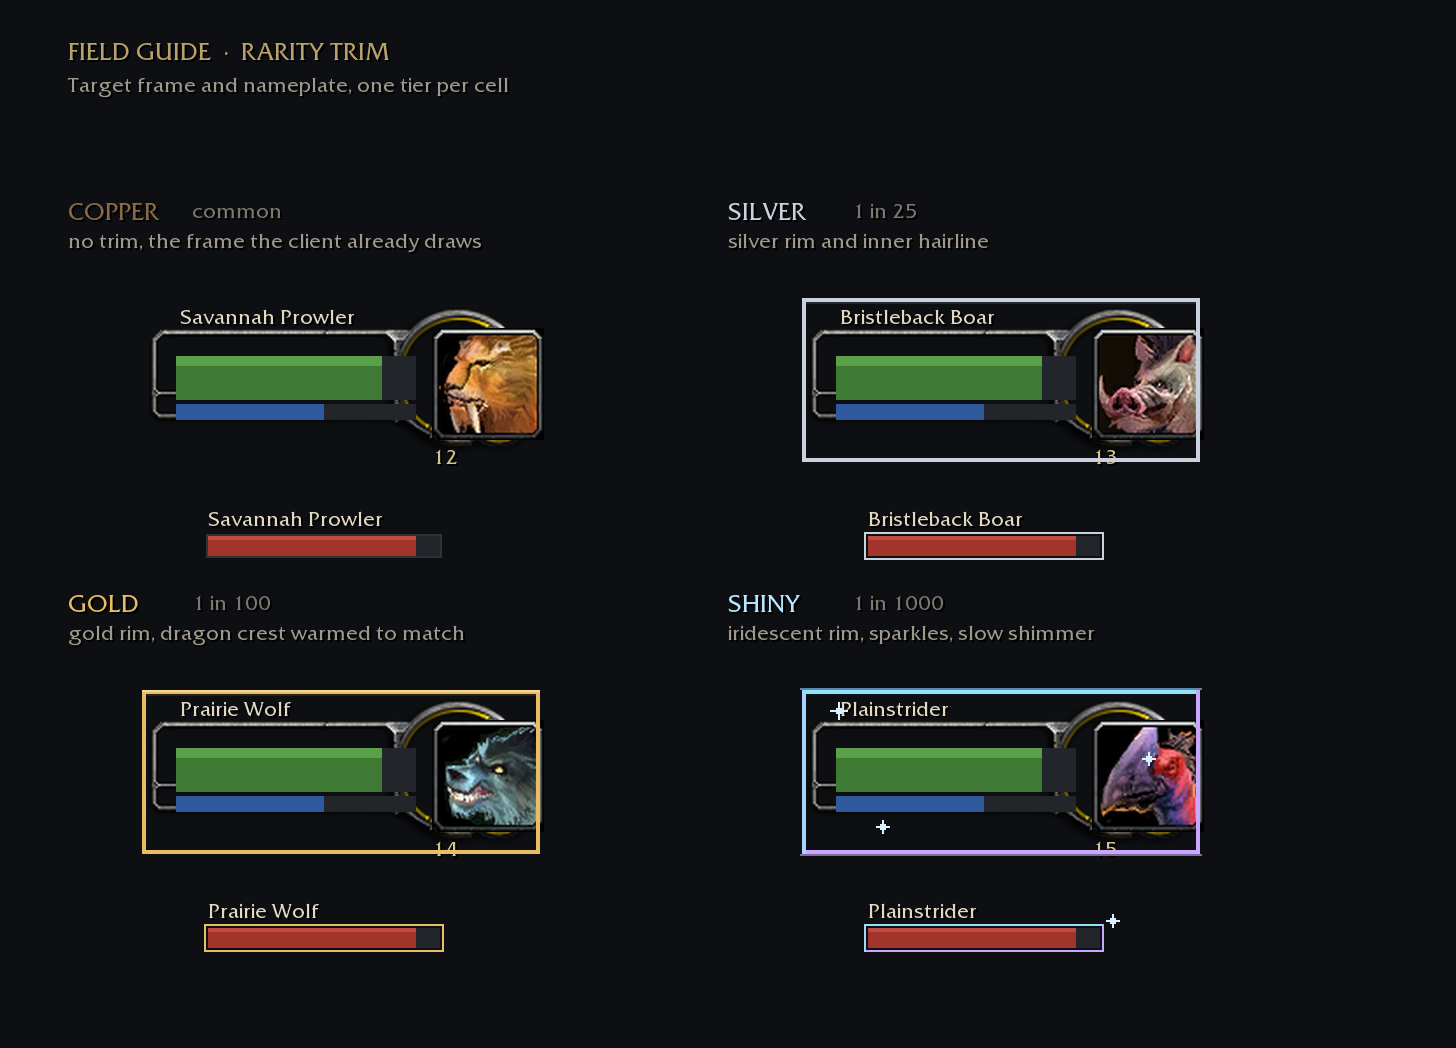
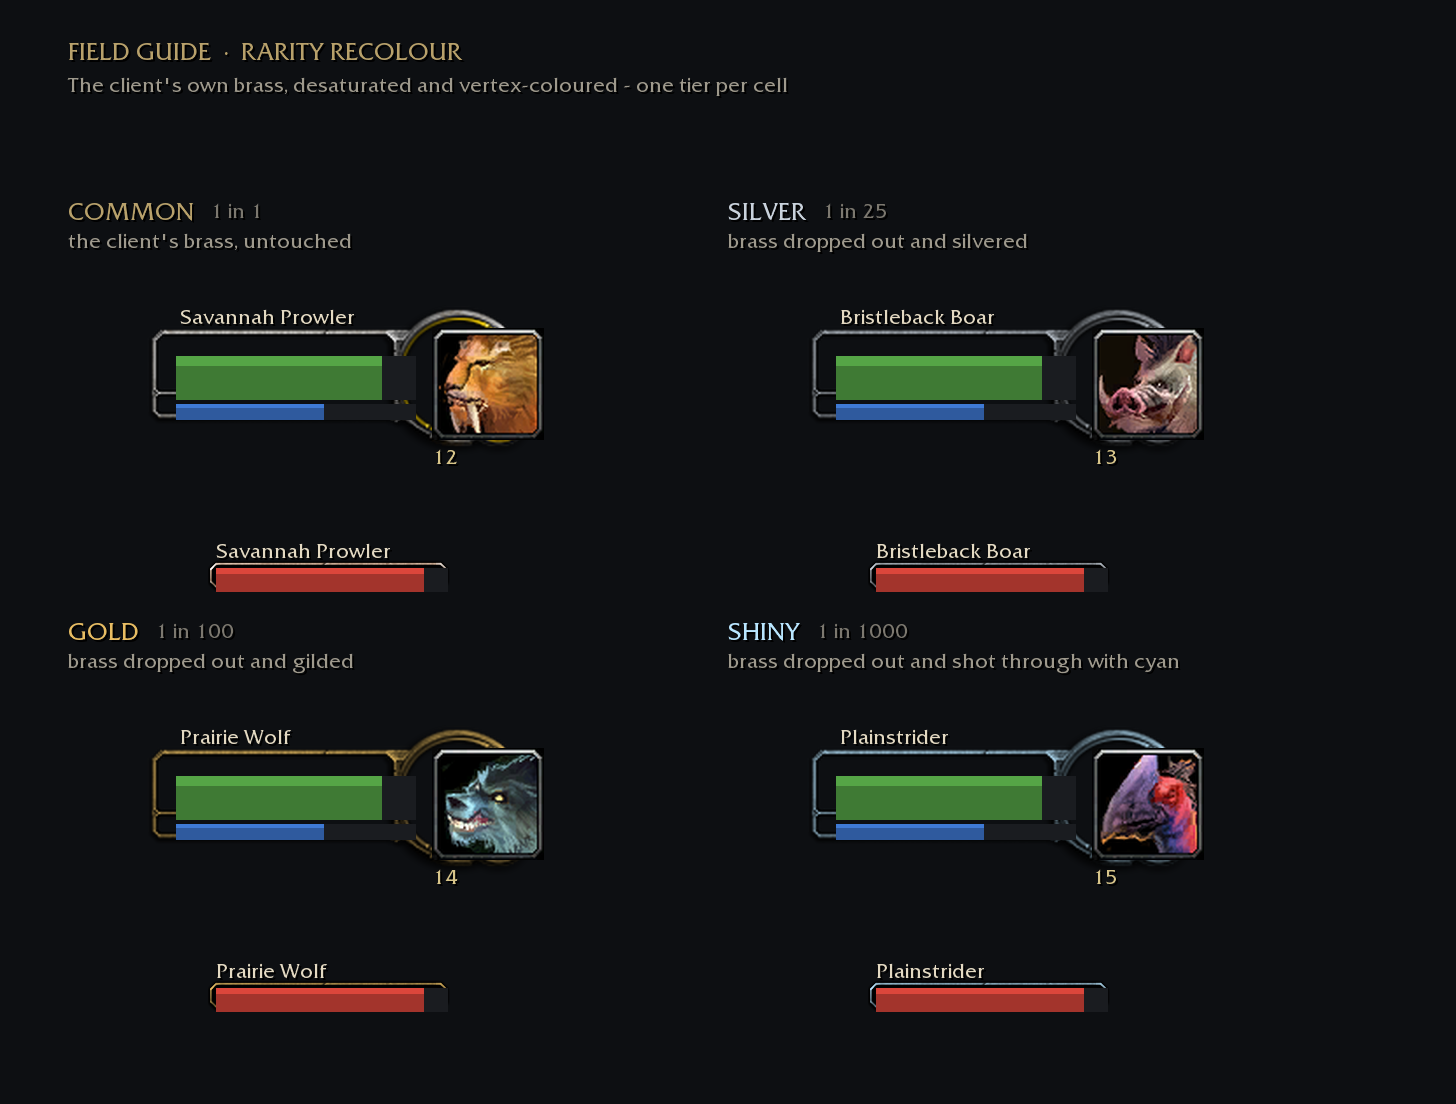
docs: draw the rarity sheets as a recolour of the client's brass (#2)
* docs: draw the rarity sheets as a recolour of the client's brass

The mockups drew an added trim: four addon-owned strips outside the frame
art. That is not what the design should be. These sheets draw the recolour
the addon actually paints - the client's targeting-frame chrome and plate
trough with the chroma dropped out and the tier colour multiplied back in,
which is SetDesaturated(true) plus SetVertexColor - so common creatures keep
the brass the client ships and the other tiers are the same hardware in
silver, gold and cyan.

Claude-Session: https://claude.ai/code/session_01JcwULHwLekhyjYKyVykXY3

* ci: record the rarity digests from the committed tree and mark the renderer executable

The stashed work-in-progress locale change was in the digest when it was
first recorded, so every image read as stale. Re-recorded from the committed
tree, and tools/rarity.py carries its executable bit in the index.

Claude-Session: https://claude.ai/code/session_01JcwULHwLekhyjYKyVykXY3

* ci: carry the renderer's executable bit in the index

ruff's EXE001 wants a shebang on an executable file; the bit was lost on the
first staging.

Claude-Session: https://claude.ai/code/session_01JcwULHwLekhyjYKyVykXY3

* ci: run the rarity renderer as an argument to python3

The executable bit keeps getting dropped between the index and the pushed
commit, so ruff's EXE001 fired on every run. The renderer is invoked as
`python3 tools/rarity.py` like the other non-executable tooling, so it drops
[…]

diff --git a/tools/rarity.py b/tools/rarity.py
@@ -1,7 +1,12 @@
-"""Rarity trim mockups: the target frame, the nameplate and an elite frame at each collection tier.
+"""Rarity recolour mockups: the target frame and the nameplate at every collection tier.
 
-Drawn with the pinned WoW: Forever build's own art (targeting frame nine-slice, status bar border and fill,
-nameplate health bar, atlas gems, FRIZQT), so what is approved here is what UI/Rarity.lua paints.
+The tier mark is not an addon-drawn border. Each tier drops the chroma out of the client's own brass hardware and
+multiplies the tier colour back in, which is exactly what UI/Rarity.lua does at runtime with `SetDesaturated(true)`
+and `SetVertexColor`. So these sheets are the recolour itself: COMMON is the untouched client frame, and silver, gold
+and shiny are the same textures with the brass removed and the tier colour laid into the shading.
+
+Every pixel that is not the addon's own layout comes from the pinned WoW: Forever build (1.60.1.70124) through
+wowmock, so what is approved here is what the addon paints.
 
     python3 tools/rarity.py
 """
@@ -9,27 +14,28 @@ nameplate health bar, atlas gems, FRIZQT), so what is approved here is what UI/R
 import sys
 from pathlib import Path
 
+from PIL import Image  # ty: ignore[unresolved-import]  # Pillow is local only
+
 ROOT = Path(__file__).resolve().parent.parent
 sys.path.insert(0, str(ROOT / "tools"))
 import wowmock.wowmock as wowmock  # noqa: E402
-from wowmock.wowmock import FONTS  # noqa: E402
+from wowmock.wowmock import FONTS, tint  # noqa: E402
 
 OUT = ROOT / "docs" / "screenshots"
 
-# The tier palette. Copper is the client's own frame colour, so it adds nothing: the whole point is that a
-# common creature looks exactly like it always did.
+# UI/Rarity.lua's COLORS table, verbatim. Copper has no entry because copper is the client's own brass and needs no
+# recolour at all; the whole promise of the feature is that a common creature looks exactly as it always did.
 TIERS = (
-    ("COPPER", "common", wowmock.rgb("8a6a44"), "1 in 1", "no trim, the frame the client already draws"),
-    ("SILVER", "1 in 25", wowmock.rgb("c9d2dc"), "1 in 25", "silver rim and inner hairline"),
-    ("GOLD", "1 in 100", wowmock.rgb("e8bd63"), "1 in 100", "gold rim, dragon crest warmed to match"),
-    ("SHINY", "1 in 1000", wowmock.rgb("b9e6ff"), "1 in 1000", "iridescent rim, sparkles, slow shimmer"),
+    ("COMMON", "1 in 1", None, "the client's brass, untouched"),
+    ("SILVER", "1 in 25", wowmock.rgb("c9d2dc"), "brass dropped out and silvered"),
+    ("GOLD", "1 in 100", wowmock.rgb("e8bd63"), "brass dropped out and gilded"),
+    ("SHINY", "1 in 1000", wowmock.rgb("b9e6ff"), "brass dropped out and shot through with cyan"),
 )
 
 TEXT = wowmock.rgb("e3d9c2")
 MUTED = wowmock.rgb("9e998c")
 DIM = wowmock.rgb("7c786f")
 BRASS = wowmock.rgb("b8a16b")
-TROUGH = wowmock.rgb("22252a")
 BG = wowmock.rgb("0d0f12")
 
 FRAME_W, FRAME_H = 256, 128
@@ -39,156 +45,100 @@ def text(canvas, x, y, value, font, colour=TEXT, **kwargs):
     canvas.text(x, y, value, FONTS[font], colour, **kwargs)
 
 
-def stroke(canvas, x, y, w, h, colour, thickness=2):
-    canvas.fill(x, y, w, thickness, colour)
-    canvas.fill(x, y + h - thickness, w, thickness, colour)
-    canvas.fill(x, y, thickness, h, colour)
-    canvas.fill(x + w - thickness, y, thickness, h, colour)
+def recolour(piece, colour):
+    """SetDesaturated then SetVertexColor: luminance only, multiplied by the tier colour."""
+    if colour is None:
+        return piece
+    grey = piece.convert("L").convert("RGBA")
+    grey.putalpha(piece.getchannel("A"))
+    return tint(grey, colour)
 
 
-def corner_gems(canvas, x, y, w, h, colour, size=5):
-    """The client marks frames with small atlas diamonds, so the trim's corners get the same treatment."""
-    for cx, cy in ((x, y), (x + w, y), (x, y + h), (x + w, y + h)):
-        for row in range(size):
-            inset = abs(row - size / 2 + 0.5)
-            canvas.fill(cx - (size / 2 - inset), cy - size / 2 + row, max(1, (size / 2 - inset) * 2), 1, colour)
+def art(canvas, atlas, x, y, w, h, colour=None):
+    """Draw an atlas the way the client would and recolour it before it lands on the canvas."""
+    wpx, hpx = canvas.px(x + w) - canvas.px(x), canvas.px(y + h) - canvas.px(y)
+    piece = canvas.sliced(atlas, wpx, hpx) if atlas.slice else atlas.image.resize((wpx, hpx), Image.LANCZOS)
+    canvas.composite(recolour(piece, colour), canvas.px(x), canvas.px(y))
 
 
-def sparkle(canvas, cx, cy, size, colour):
-    """A four point star from fills: FRIZQT has no star glyph and the client draws these with art."""
-    canvas.fill(cx - size, cy, size * 2 + 1, 1, colour)
-    canvas.fill(cx, cy - size, 1, size * 2 + 1, colour)
-    canvas.fill(cx - 1, cy - 1, 3, 3, colour)
+def health(canvas, x, y, w, h, fraction, fill):
+    """The bar the client fills: a dark trough with the reaction colour in it."""
+    canvas.fill(x, y, w, h, wowmock.rgb("1a1c20"))
+    canvas.fill(x, y, round(w * fraction), h, fill)
+    canvas.fill(x, y, round(w * fraction), max(2, h // 4), tuple(min(1, c * 1.35) for c in fill))
 
 
-def target_frame(ui, canvas, x, y, tier, icon, name, level, elite=False, nameplate=False):
-    """One target frame: the client's targeting frame art, a health fill, the creature icon in the portrait, and
-    the tier's trim. Copper draws no trim at all, which is the design's whole claim."""
-    label, odds, colour, _, _ = tier
-
-    art = "hud-TargetingFrame-elite" if elite else "hud-TargetingFrame"
-    atlas = ui.atlas(art)
-    canvas.draw(atlas, x, y, FRAME_W, FRAME_H)
-    # The atlas carries transparent margins, so the trim follows the art's own bounds rather than the draw box.
-    left, top, right, bottom = atlas.image.convert("RGBA").getbbox()
-
-    # Health: the trough the client carves at the left of the frame, filled the way a live target reads.
-    hx, hy, hw, hh = x + 40, y + 34, 120, 22
-    canvas.fill(hx, hy, hw, hh, TROUGH)
-    canvas.fill(hx, hy, round(hw * 0.86), hh, wowmock.rgb("3f7a34"))
-    canvas.fill(hx, hy, round(hw * 0.86), max(2, hh // 4), wowmock.rgb("59a049"))
-    # Mana under it, thinner, so the frame reads as the real thing rather than a bare bar.
-    canvas.fill(hx, hy + hh + 2, hw, 8, TROUGH)
-    canvas.fill(hx, hy + hh + 2, round(hw * 0.62), 8, wowmock.rgb("2f5a9e"))
-
-    # Portrait: the circle the template leaves at the right of the frame.
+def target_frame(ui, canvas, x, y, tier, icon, name, level, elite=False):
+    """One target frame: the client's brass chrome, recoloured to the tier, with its bars over the art's own trough."""
+    _, _, colour, _ = tier
+    atlas = ui.atlas("hud-TargetingFrame-elite" if elite else "hud-TargetingFrame")
+    art(canvas, atlas, x, y, FRAME_W, FRAME_H, colour)
+    health(canvas, x + 40, y + 34, 120, 22, 0.86, wowmock.rgb("3f7a34"))
+    health(canvas, x + 40, y + 58, 120, 8, 0.62, wowmock.rgb("2f5a9e"))
     canvas.draw(icon, x + 168, y + 20, 56, 56)
     text(canvas, x + 42, y + 8, name, "GameFontNormalSmall", TEXT, width=116)
     text(canvas, x + 168, y + 78, str(level), "GameFontNormalSmall", wowmock.rgb("d8c58a"), width=56)
 
-    if label == "COPPER":
-        return
-
-    # Trim sits outside the art, never on top of it: an elite keeps its dragon and only gains an outer edge, so
-    # the two decorations never fight for the same pixels.
-    pad = 3
-    tx, ty = x + left - pad, y + top - pad
-    tw, th = (right - left) + pad * 2, (bottom - top) + pad * 2
-    if label == "SHINY":
-        # A soft two-tone edge: cyan along the top, violet along the bottom, plus a faint halo.
-        canvas.fill(tx, ty, tw, 2, wowmock.rgb("8fe3ff"))
-        canvas.fill(tx, ty + th - 2, tw, 2, wowmock.rgb("c8a8ff"))
-        canvas.fill(tx, ty, 2, th, wowmock.rgb("a6d4ff"))
-        canvas.fill(tx + tw - 2, ty, 2, th, wowmock.rgb("c8a8ff"))
-        canvas.fill(tx - 1, ty - 1, tw + 2, 1, wowmock.rgb("5f88a8"))
-        canvas.fill(tx - 1, ty + th, tw + 2, 1, wowmock.rgb("7f6aa0"))
-        for sx, sy, size in ((tx + 18, ty + 10, 4), (tx + tw - 26, ty + 34, 3), (tx + 40, ty + th - 14, 3)):
-            sparkle(canvas, sx, sy, size, wowmock.rgb("d8f2ff"))
-    else:
-        stroke(canvas, tx, ty, tw, th, colour, 2)
-        canvas.fill(tx + 2, ty + 2, tw - 4, 1, wowmock.rgb("2a2118") if label == "GOLD" else wowmock.rgb("232830"))
-
-    if label == "GOLD":
-        # The dragon crest is part of the elite art, so a gold tier warms the frame's own brass rather than
-        # layering a second metal on top of it.
-        canvas.fill(tx, ty, tw, 1, wowmock.rgb("f6d79a"))
-
 
 def nameplate(ui, canvas, x, y, tier, name, elite=False):
-    """The nameplate trim: the client's own plate bar, edged in the tier colour so it is legible at a glance in
-    a pull of eight mobs. Copper keeps the plate exactly as the client draws it."""
-    label, _, colour, _, _ = tier
-    w, h = 116, 10
-    canvas.fill(x, y, w, h, TROUGH)
-    canvas.fill(x, y, round(w * 0.9), h, wowmock.rgb("a3342c"))
-    canvas.fill(x, y, round(w * 0.9), 2, wowmock.rgb("c04a3f"))
-
-    if label == "COPPER":
-        stroke(canvas, x - 1, y - 1, w + 2, h + 2, wowmock.rgb("2e3138"), 1)
-    elif label == "SHINY":
-        canvas.fill(x - 2, y - 2, w + 4, 1, wowmock.rgb("8fe3ff"))
-        canvas.fill(x - 2, y + h + 1, w + 4, 1, wowmock.rgb("c8a8ff"))
-        canvas.fill(x - 2, y - 2, 1, h + 4, wowmock.rgb("a6d4ff"))
-        canvas.fill(x + w + 1, y - 2, 1, h + 4, wowmock.rgb("c8a8ff"))
-        sparkle(canvas, x + w + 6, y - 4, 3, wowmock.rgb("d8f2ff"))
-    else:
-        stroke(canvas, x - 2, y - 2, w + 4, h + 4, colour, 1)
-
+    """One nameplate: the plate's own trough recoloured to the tier, the reaction fill inside it, the elite dragon as
+    the client draws it. Copper leaves the trough at the bronze the client ships."""
+    _, _, colour, _ = tier
+    w, h = 116, 12
+    art(canvas, ui.atlas("UI-HUD-CoolDownManager-Bar-BG"), x - 4, y - 4, w + 8, h + 8, colour)
+    health(canvas, x, y, w, h, 0.9, wowmock.rgb("a3342c"))
     text(canvas, x, y - 15, name, "GameFontNormalSmall", TEXT, width=w)
     if elite:
-        # Elite plates keep the client's gold dragon and gain only a rarity edge, so the two never overlap.
-        canvas.draw(ui.atlas("nameplates-icon-elite-gold"), x + w - 15, y - 22, 14, 14)
+        canvas.draw(ui.atlas("nameplates-icon-elite-gold"), x + w - 15, y - 23, 14, 14)
+
+
+def sheet(ui, icons, name, elite=False, plates=False):
+    cols, rows = 2, 2
+    cell_w, cell_h = 330, 210
+    m = 34
+    canvas = ui.canvas(cell_w * cols + m * 2, cell_h * rows + m * 2 + 64)
+    canvas.fill(0, 0, canvas.width, canvas.height, BG)
+    text(canvas, m, 18, "FIELD GUIDE  \u00b7  RARITY RECOLOUR", "GameFontNormal", BRASS)
+    text(
+        canvas,
+        m,
+        36,
+        "The client's own brass, desaturated and vertex-coloured - one tier per cell",
+        "GameFontDisableSmall",
+        MUTED,
+    )
+    folk = ["Savannah Prowler", "Bristleback Boar", "Prairie Wolf", "Plainstrider"]
+    glyph = ["prowler", "boar", "wolf", "strider"]
+    for index, tier in enumerate(TIERS):
+        col, row = index % cols, index // cols
+        cx = m + col * cell_w
+        cy = m + 64 + row * cell_h
+        label, odds, colour, note = tier
+        text(canvas, cx, cy, label, "GameFontNormal", colour or BRASS)
+        odds_x = cx + canvas.text_width(label, FONTS["GameFontNormal"]) + 8
+        text(canvas, odds_x, cy + 1, odds, "GameFontDisableSmall", DIM)
+        text(canvas, cx, cy + 16, note, "GameFontDisableSmall", MUTED)
+        target_frame(ui, canvas, cx + 14, cy + 46, tier, icons[glyph[index]], folk[index], 12 + index, elite=elite)
+        if plates:
+            nameplate(ui, canvas, cx + 74, cy + 186, tier, folk[index], elite=elite)
+    return canvas
 
 
 def main():
     ui = wowmock.Ui(scale=2)
     OUT.mkdir(parents=True, exist_ok=True)
-
     icons = {
-        k: ui.texture(f"interface/icons/{v}.blp")
-        for k, v in (
+        key: ui.texture(f"interface/icons/{value}.blp")
+        for key, value in (
             ("prowler", "ability_hunter_pet_cat"),
             ("boar", "ability_hunter_pet_boar"),
             ("wolf", "ability_hunter_pet_wolf"),
             ("strider", "ability_hunter_pet_tallstrider"),
         )
     }
-
-    def sheet(name, elite=False, plates=False):
-        cols, rows = 2, 2
-        cell_w, cell_h = 330, 196
-        m = 34
-        canvas = ui.canvas(cell_w * cols + m * 2, cell_h * rows + m * 2 + 64)
-        canvas.fill(0, 0, canvas.width, canvas.height, BG)
-        text(canvas, m, 18, "FIELD GUIDE  \u00b7  RARITY TRIM", "GameFontNormal", BRASS)
-        text(
-            canvas,
-            m,
-            36,
-            "Target frame and nameplate, one tier per cell",
-            "GameFontDisableSmall",
-            MUTED,
-        )
-        folk = ["Savannah Prowler", "Bristleback Boar", "Prairie Wolf", "Plainstrider"]
-        glyph = ["prowler", "boar", "wolf", "strider"]
-        for index, tier in enumerate(TIERS):
-            col, row = index % cols, index // cols
-            cx = m + col * cell_w
-            cy = m + 64 + row * cell_h
-            label, odds, colour, _, note = tier
-            # Tier heading and odds, the way the guide's own cards title a variant.
-            text(canvas, cx, cy, label, "GameFontNormal", colour)
-            text(canvas, cx + 62, cy + 1, odds, "GameFontDisableSmall", DIM)
-            text(canvas, cx, cy + 16, note, "GameFontDisableSmall", MUTED)
-
-            target_frame(ui, canvas, cx + 14, cy + 46, tier, icons[glyph[index]], folk[index], 12 + index, elite=elite)
-            if plates:
-                nameplate(ui, canvas, cx + 70, cy + 170, tier, folk[index], elite=elite)
-        return canvas
-
-    sheet("target frames").save(OUT / "rarity-target.png")
-    sheet("nameplates", plates=True).save(OUT / "rarity-nameplates.png")
-    sheet("elite frames", elite=True, plates=True).save(OUT / "rarity-elite.png")
+    sheet(ui, icons, "target frames").save(OUT / "rarity-target.png")
+    sheet(ui, icons, "nameplates", plates=True).save(OUT / "rarity-nameplates.png")
+    sheet(ui, icons, "elite frames", elite=True, plates=True).save(OUT / "rarity-elite.png")
     print("wrote 3 rarity sheets")
 
 
